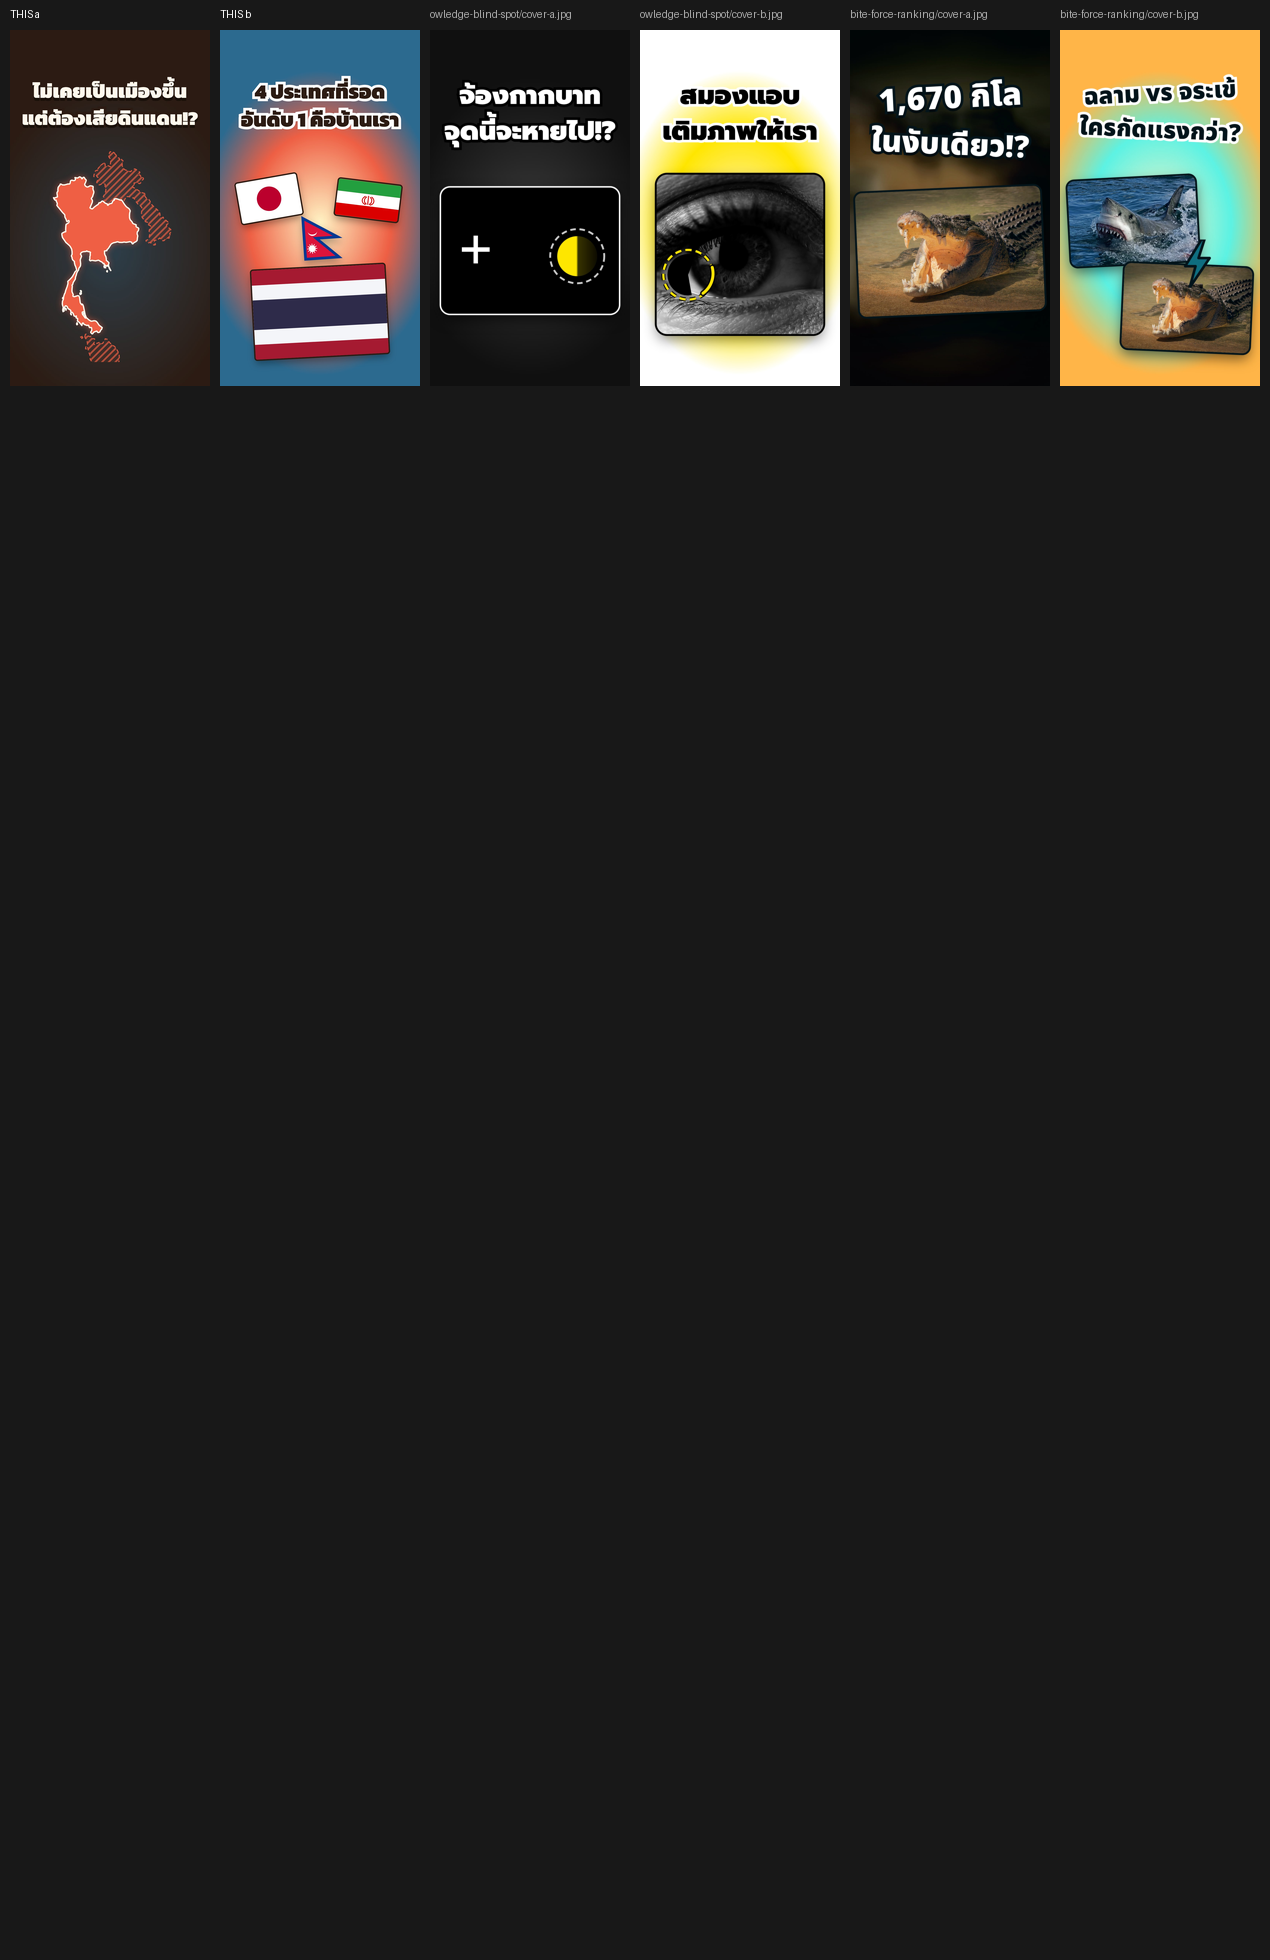
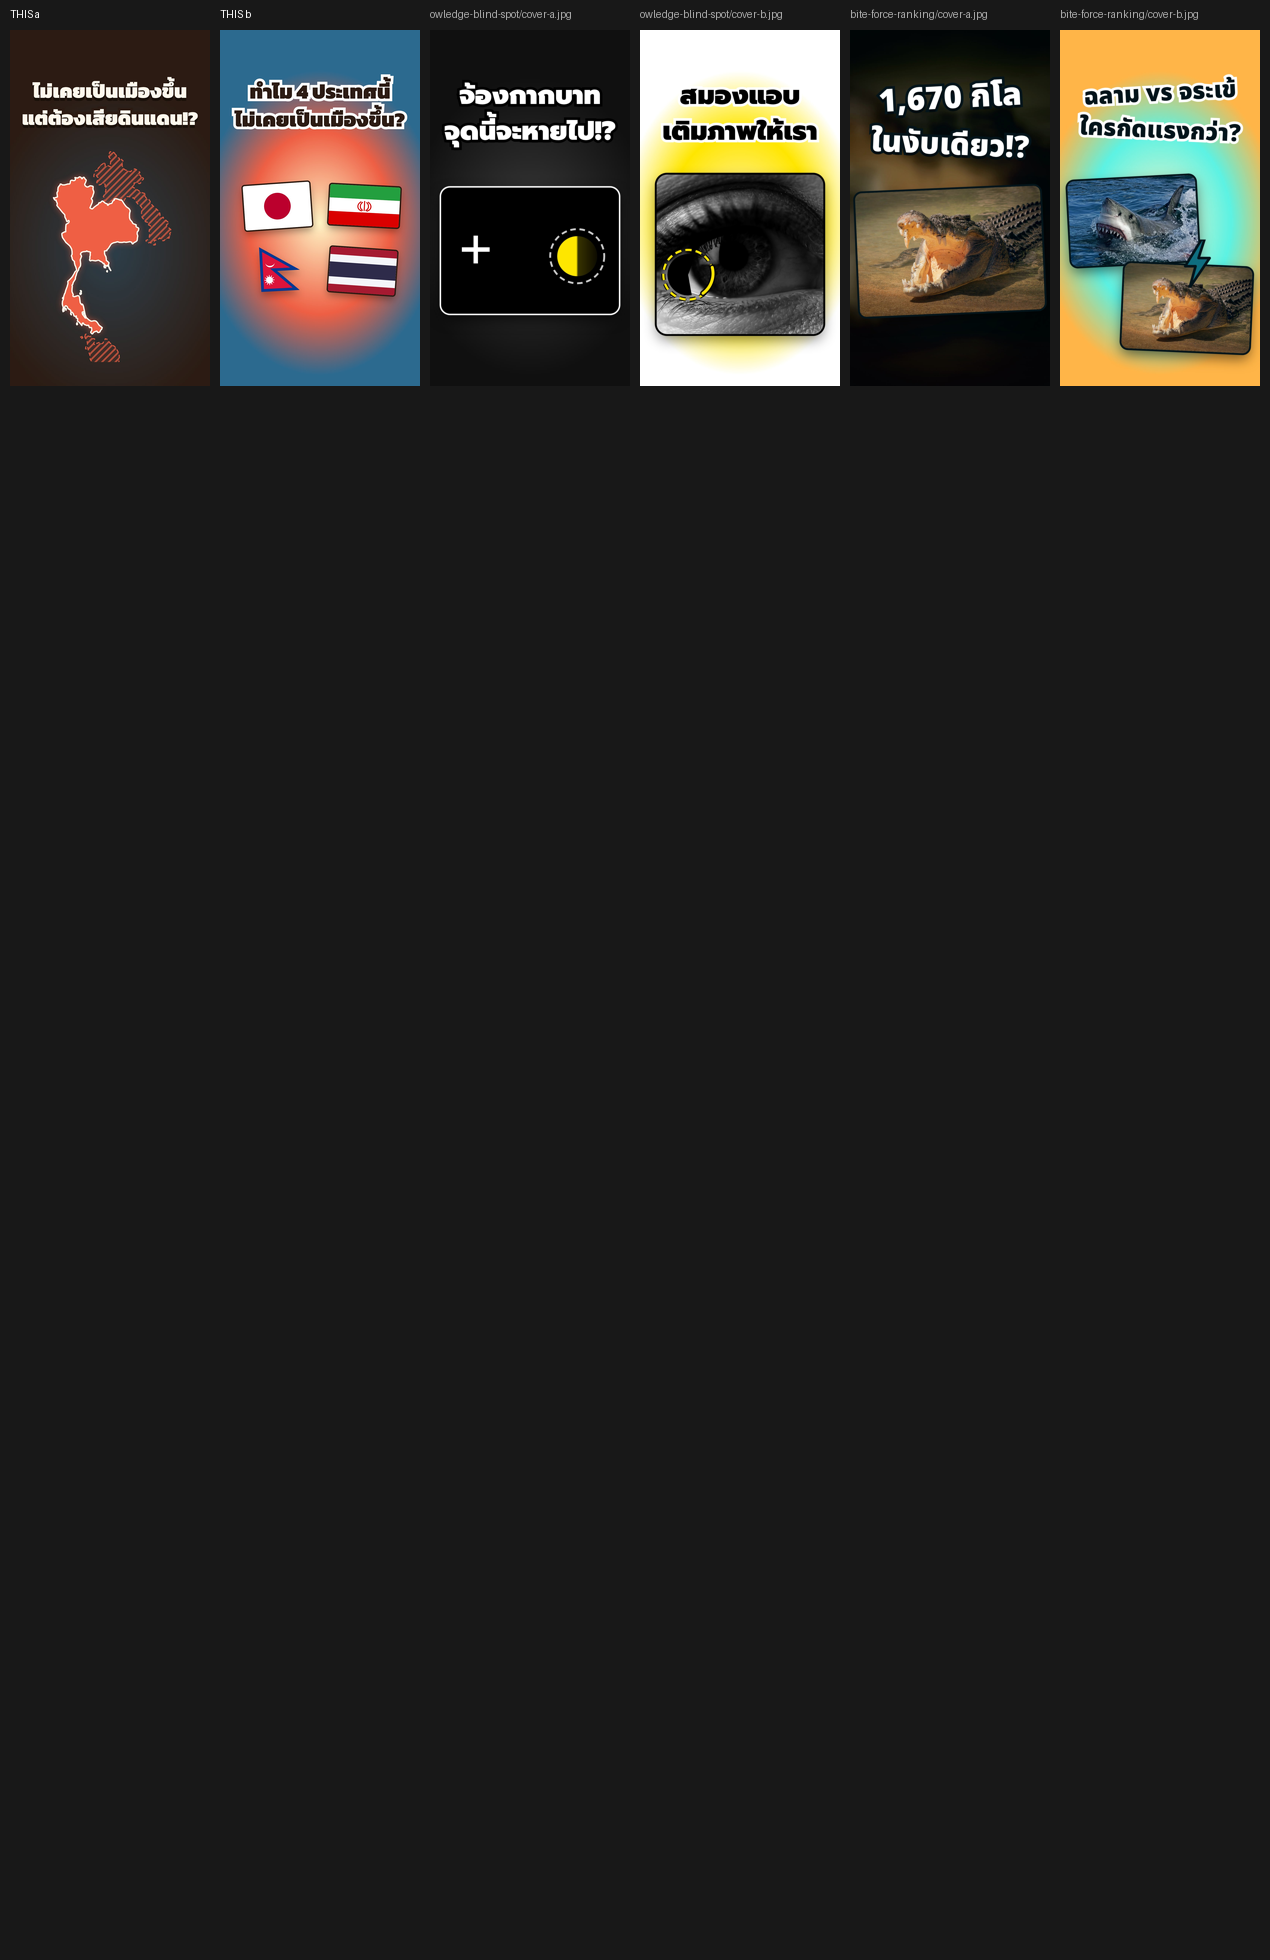
never-colonized: ปก B ไม่อวยเกิน (ธง 4 ผืนเท่ากัน 'ทำไม 4 ประเทศนี้ไม่เคยเป็นเมืองขึ้น?') ตามผู้ใช้

Changed region(s): [[0.1843, 0.0311, 0.3378, 0.1867]]

diff --git a/projects/2026-11-27-knowledge-never-colonized/video/cover.html b/projects/2026-11-27-knowledge-never-colonized/video/cover.html
@@ -32,7 +32,7 @@ html,body{width:1080px;height:1920px;overflow:hidden;background:#000}
 #root.vb .tl{color:var(--ink);-webkit-text-stroke-color:#fff;text-shadow:none}
 #root.vb .tl b{color:var(--bg2)}
 #art svg{position:absolute;left:0;top:0;width:900px;height:900px;overflow:visible}
-/* never-colonized: A = dark field so the accent Thailand glows; B = flags on the light accent field */
+/* never-colonized: A = dark field so the accent Thailand glows; B = 4 flags same size (ผู้ใช้: "เอาใจแต่ไม่อวยออกนอกหน้า") */
 #root:not(.vb){background:radial-gradient(ellipse 700px 900px at 540px 1180px,color-mix(in srgb,var(--accent2) 45%,var(--ink)) 0%,var(--ink) 100%)}
 #root:not(.vb) .tl{color:var(--text)}
 .va,.vbart{display:none}
@@ -55,16 +55,16 @@ html,body{width:1080px;height:1920px;overflow:hidden;background:#000}
 <use href="#cth" fill="var(--accent)" stroke="var(--text)" stroke-width="6" stroke-linejoin="round"/>
 </svg></div>
 <div class="vbart">
- <div class="fl" style="left:10px;top:40px;width:330px;height:220px;transform:rotate(-10deg)"><svg viewBox="0 0 3 2"><rect width="3" height="2" fill="#fff"/><circle cx="1.5" cy="1" r=".6" fill="#BC002D"/></svg></div>
+ <div class="fl" style="left:40px;top:70px;width:360px;height:240px;transform:rotate(-4deg)"><svg viewBox="0 0 3 2"><rect width="3" height="2" fill="#fff"/><circle cx="1.5" cy="1" r=".6" fill="#BC002D"/></svg></div>
  
- <div class="fl" style="left:540px;top:60px;width:340px;height:196px;transform:rotate(7deg)"><svg viewBox="0 0 630 360"><rect width="630" height="120" fill="#239F40"/><rect y="120" width="630" height="120" fill="#fff"/><rect y="240" width="630" height="120" fill="#DA0000"/>
+ <div class="fl" style="left:500px;top:80px;width:380px;height:217px;transform:rotate(3deg)"><svg viewBox="0 0 630 360"><rect width="630" height="120" fill="#239F40"/><rect y="120" width="630" height="120" fill="#fff"/><rect y="240" width="630" height="120" fill="#DA0000"/>
    <g fill="none" stroke="#DA0000" stroke-width="9" stroke-linecap="round"><path d="M315,140 V222"/><path d="M296,150 C272,168 272,206 300,220"/><path d="M334,150 C358,168 358,206 330,220"/><path d="M282,146 C246,170 248,212 290,226"/><path d="M348,146 C384,170 382,212 340,226"/></g></svg></div>
- <div class="np" style="position:absolute;left:350px;top:230px;width:210px;height:260px;transform:rotate(-4deg);filter:drop-shadow(0 22px 20px rgba(0,0,0,.3))"><svg viewBox="-8 -8 116 138" style="width:100%;height:100%;overflow:visible">
+ <div class="np" style="position:absolute;left:120px;top:400px;width:210px;height:260px;transform:rotate(-3deg);filter:drop-shadow(0 22px 20px rgba(0,0,0,.3))"><svg viewBox="-8 -8 116 138" style="width:100%;height:100%;overflow:visible">
    <path d="M0,0 L100,62 L36,62 L100,122 L0,122 Z" fill="#DC143C" stroke="#003893" stroke-width="8" stroke-linejoin="miter"/>
    <path d="M0,0 L100,62 L36,62 L100,122 L0,122 Z" fill="none" stroke="var(--ink)" stroke-width="2.5" transform="scale(1)" opacity=".0"/>
    <path d="M12,40 A14,14 0 0 0 40,40 A14,10 0 0 1 12,40 Z" fill="#fff"/>
    <circle cx="22" cy="92" r="10" fill="#fff"/><g fill="#fff"><rect x="21" y="77" width="2" height="6" transform="rotate(0 22 92)"/><rect x="21" y="77" width="2" height="6" transform="rotate(30 22 92)"/><rect x="21" y="77" width="2" height="6" transform="rotate(60 22 92)"/><rect x="21" y="77" width="2" height="6" transform="rotate(90 22 92)"/><rect x="21" y="77" width="2" height="6" transform="rotate(120 22 92)"/><rect x="21" y="77" width="2" height="6" transform="rotate(150 22 92)"/><rect x="21" y="77" width="2" height="6" transform="rotate(180 22 92)"/><rect x="21" y="77" width="2" height="6" transform="rotate(210 22 92)"/><rect x="21" y="77" width="2" height="6" transform="rotate(240 22 92)"/><rect x="21" y="77" width="2" height="6" transform="rotate(270 22 92)"/><rect x="21" y="77" width="2" height="6" transform="rotate(300 22 92)"/><rect x="21" y="77" width="2" height="6" transform="rotate(330 22 92)"/></g></svg></div>
- <div class="fl" style="left:90px;top:520px;width:720px;height:480px;transform:rotate(-3deg)"><svg viewBox="0 0 9 6"><rect width="9" height="6" fill="#A51931"/><rect y="1" width="9" height="4" fill="#F4F5F8"/><rect y="2" width="9" height="2" fill="#2D2A4A"/></svg></div>
+ <div class="fl" style="left:500px;top:420px;width:360px;height:240px;transform:rotate(4deg)"><svg viewBox="0 0 9 6"><rect width="9" height="6" fill="#A51931"/><rect y="1" width="9" height="4" fill="#F4F5F8"/><rect y="2" width="9" height="2" fill="#2D2A4A"/></svg></div>
 </div></div>
   <div id="title"></div>
   <div id="badge" data-cover="badge"></div>

diff --git a/projects/2026-11-27-knowledge-never-colonized/thumbnail.md b/projects/2026-11-27-knowledge-never-colonized/thumbnail.md
@@ -4,6 +4,6 @@
 | แบบ | ภาพเด่น | ข้อความ (≤2 บรรทัด, look.json covers) | แนว | ทำไมต่างจากชื่อ |
 |---|---|---|---|---|
 | **A (หลัก)** | แผนที่ไทยสีทองเต็มกรอบ มีรอยร้าว/ชิ้นด้านขวา (ฝั่งซ้ายโขง) และใต้ (หัวเมืองมลายู) แยกออกเล็กน้อย บนพื้นแผนที่เก่าโทนครีม | ไม่เคยเป็นเมืองขึ้น / แต่ต้องเสียดินแดน!? | curiosity: ราคาที่ต้องจ่าย (จริงตาม research ข้อ 4ค + MFA) | ชื่อพูดเรื่องจัดอันดับ 4 ประเทศ ปกพูดเรื่องราคาที่ไทยจ่าย |
-| B | ธง 4 ผืน (ญี่ปุ่น อิหร่าน เนปาล) + ธงไทยใหญ่สุดหน้าสุด | 4 ประเทศที่รอด / อันดับ 1 คือบ้านเรา | ภูมิใจ/ระบุตัว | ปกบอกว่าไทยติด ชื่อเก็บว่าอีก 4 คือใคร |
+| B | ธง 4 ผืนขนาดเท่ากัน ตาราง 2x2 (ญี่ปุ่น อิหร่าน เนปาล ไทย) — ผู้ใช้: "เอาใจแต่ไม่อวยออกนอกหน้า" | ทำไม 4 ประเทศนี้ / ไม่เคยเป็นเมืองขึ้น? | ภูมิใจ/ระบุตัว | ปกบอกว่าไทยติด ชื่อเก็บว่าอีก 4 คือใคร |
 ห้าม: พระบรมฉายาลักษณ์/ภาพบุคคล, สีแดงตำหนิเพื่อนบ้าน, คลิปอาร์ตมือการ์ตูน
 หลังลง ≥48 ชม.: `python3 tools/cover_check.py log projects/2026-11-27-knowledge-never-colonized --variant a --ctr <%> --impressions <n>`

diff --git a/projects/2026-11-27-knowledge-never-colonized/DELIVERY.md b/projects/2026-11-27-knowledge-never-colonized/DELIVERY.md
@@ -58,7 +58,7 @@ ElevenLabs eleven_v3: 6 เทค (~545 / ~590 / ~640 / ~650 ×2 ตัวอั
 
 ## ชื่อ / ปก
 - ชื่อแนะนำ: "4 ประเทศที่ไม่เคยเป็นเมืองขึ้น อันดับ 1 คือไทย แต่ไม่ได้รอดฟรี" (ตัวเลือกอื่นใน upload.md)
-- ปก A (หลัก): "ไม่เคยเป็นเมืองขึ้น / แต่ต้องเสียดินแดน!?" แผนที่ไทย + พื้นที่ลายขีด | ปก B: "4 ประเทศที่รอด / อันดับ 1 คือบ้านเรา" ธง 4 ผืน
+- ปก A (หลัก): "ไม่เคยเป็นเมืองขึ้น / แต่ต้องเสียดินแดน!?" แผนที่ไทย + พื้นที่ลายขีด | ปก B: "ทำไม 4 ประเทศนี้ / ไม่เคยเป็นเมืองขึ้น?" ธง 4 ผืนขนาดเท่ากัน (แก้ตามผู้ใช้: "เอาใจแต่ไม่อวยออกนอกหน้า" — เดิมธงไทยใหญ่สุด + "อันดับ 1 คือบ้านเรา")
 - หลังลง ≥48 ชม.: `python3 tools/cover_check.py log projects/2026-11-27-knowledge-never-colonized --variant a --ctr <%> --impressions <n>`
 - ลงวันละ 1-2 คลิป เว้นระยะ (คำแนะนำ)
 - script-en.md (ร่างเก่า 5 ประเทศ ไม่อัด) ไว้ให้ห้องวางแผน

diff --git a/projects/2026-11-27-knowledge-never-colonized/upload.md b/projects/2026-11-27-knowledge-never-colonized/upload.md
@@ -33,7 +33,7 @@
 ติด label "เนื้อหาที่สร้างด้วย AI" (เสียงพากย์ AI)
 
 ## Facebook Reels
-ชื่อ/แคปชัน: 4 ประเทศที่ไม่เคยเป็นเมืองขึ้นของชาติตะวันตก 🇹🇭 อันดับ 1 คือบ้านเรา แต่ต้องแลกด้วยดินแดน ประเทศไหนควรติดอีก พิมพ์มาเลย
+ชื่อ/แคปชัน: 4 ประเทศที่ไม่เคยเป็นเมืองขึ้นของชาติตะวันตก 🇹🇭 อันดับ 1 คือไทย แต่ต้องแลกด้วยดินแดน ประเทศไหนควรติดอีก พิมพ์มาเลย
 แฮชแท็ก: #ประวัติศาสตร์ #จัดอันดับ #ประเทศไทย #ความรู้ #reels
 
 ## คำถามปิดในคลิป
